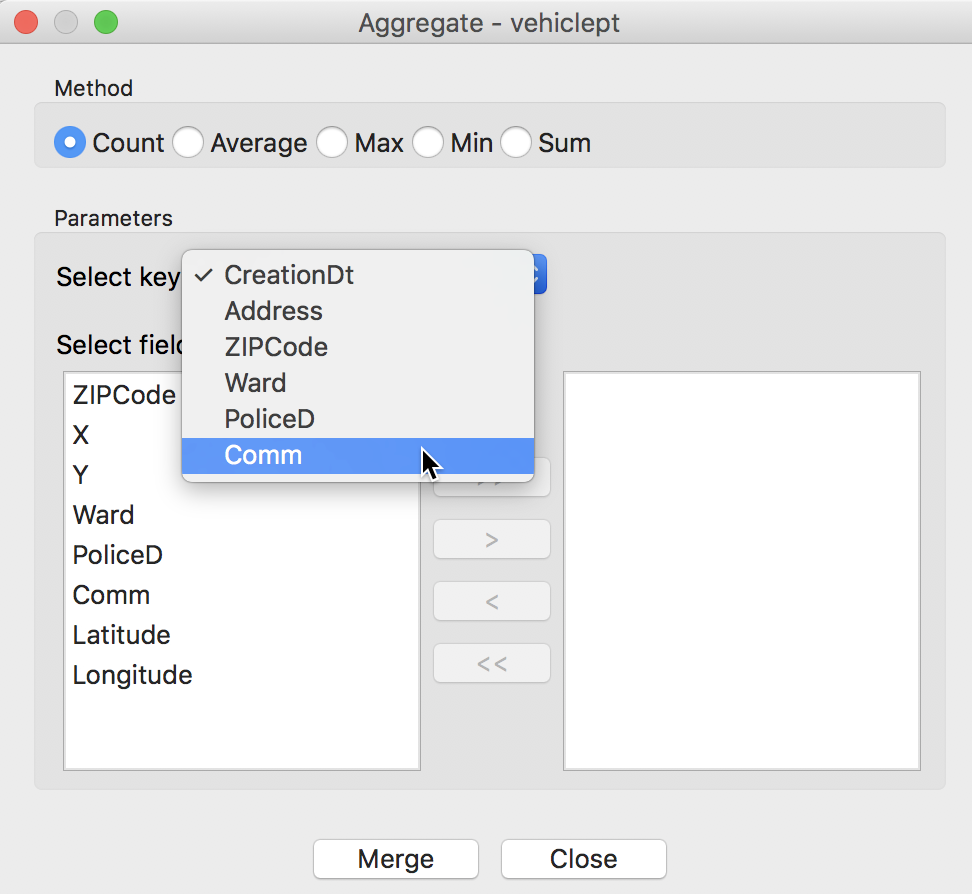
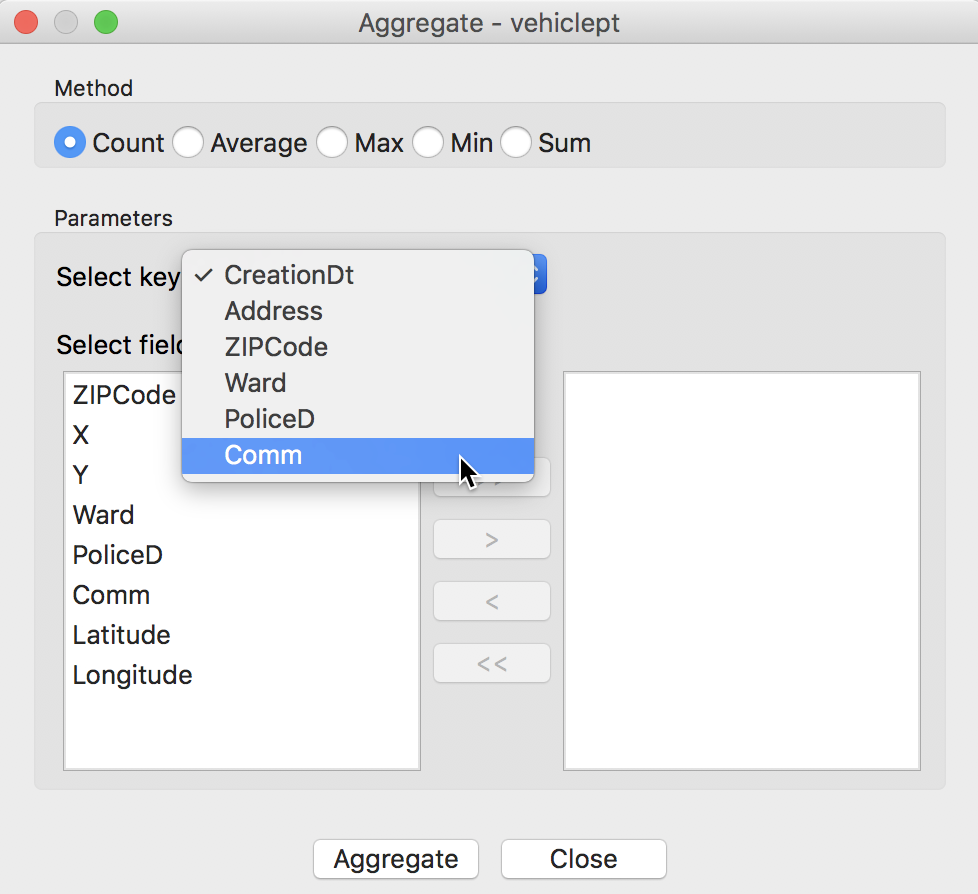
replaced screen shot with aggregate button instead of merge

diff --git a/workbook/1_datascience/lab1.html b/workbook/1_datascience/lab1.html
@@ -785,7 +785,7 @@ Table Cell Edited – 2
 Table Aggregate
 </p>
 </div>
-<p>Selecting this option generates the <strong>Aggregate</strong> dialog. Here, we choose a radio button that corresponds with the operation we want. In our example, this is <strong>Count</strong>. We also need to specify the <strong>key</strong>, i.e., the unique identifier for each areal unit. Here, this is <strong>Comm</strong> for the community areas. For operations other than <strong>count</strong>, we would also have to select the variables to which the operation (e.g, sum, or max) will be applied. In our case, we do not need to do that. We click on the <strong>Merge</strong> button to bring up the familiar file saving dialog. Make sure to choose <strong>dBase Database File</strong> as the output format and set the file name to <strong>vehicle_count.dbf</strong>. A <strong>Success</strong> message will confirm that the new file was written to disk.</p>
+<p>Selecting this option generates the <strong>Aggregate</strong> dialog. Here, we choose a radio button that corresponds with the operation we want. In our example, this is <strong>Count</strong>. We also need to specify the <strong>key</strong>, i.e., the unique identifier for each areal unit. Here, this is <strong>Comm</strong> for the community areas. For operations other than <strong>count</strong>, we would also have to select the variables to which the operation (e.g, sum, or max) will be applied. In our case, we do not need to do that. We click on the <strong>Aggregate</strong> button to bring up the familiar file saving dialog. Make sure to choose <strong>dBase Database File</strong> as the output format and set the file name to <strong>vehicle_count.dbf</strong>. A <strong>Success</strong> message will confirm that the new file was written to disk.</p>
 <div class="figure" style="text-align: center">
 <img src="pics/9_94_selectkey.png" alt="Select Aggregation Key" width="40%" />
 <p class="caption">
